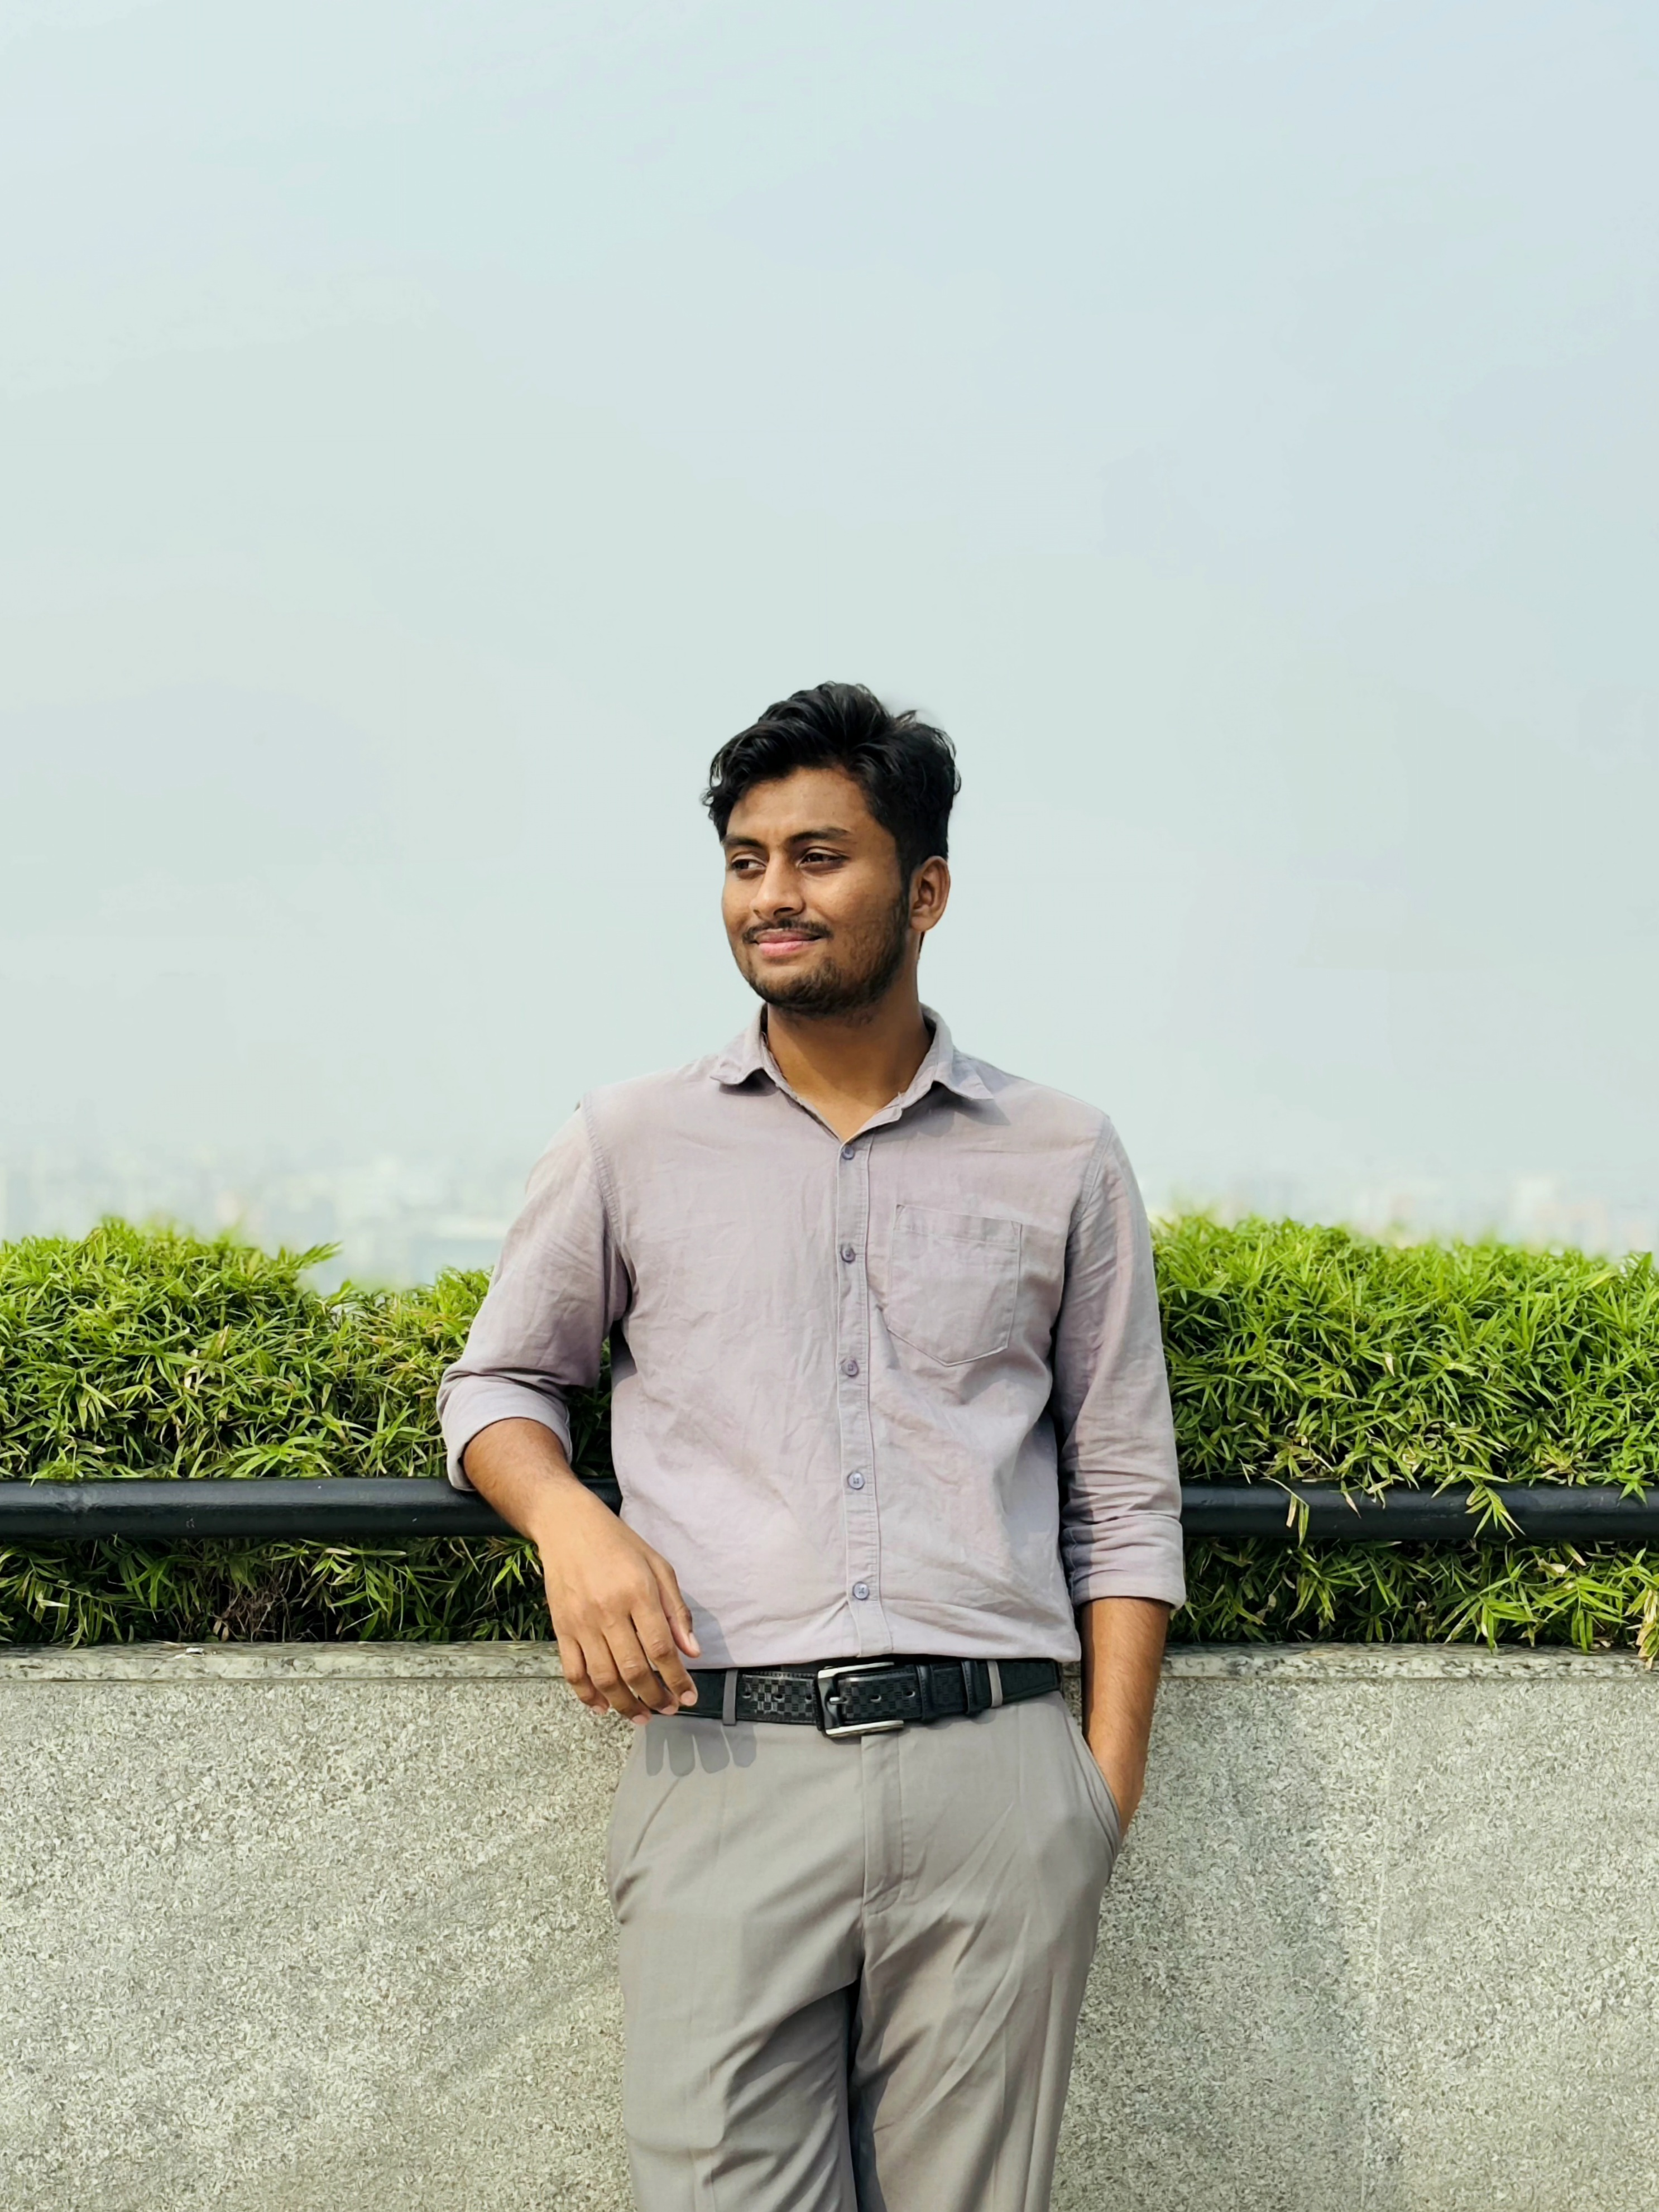
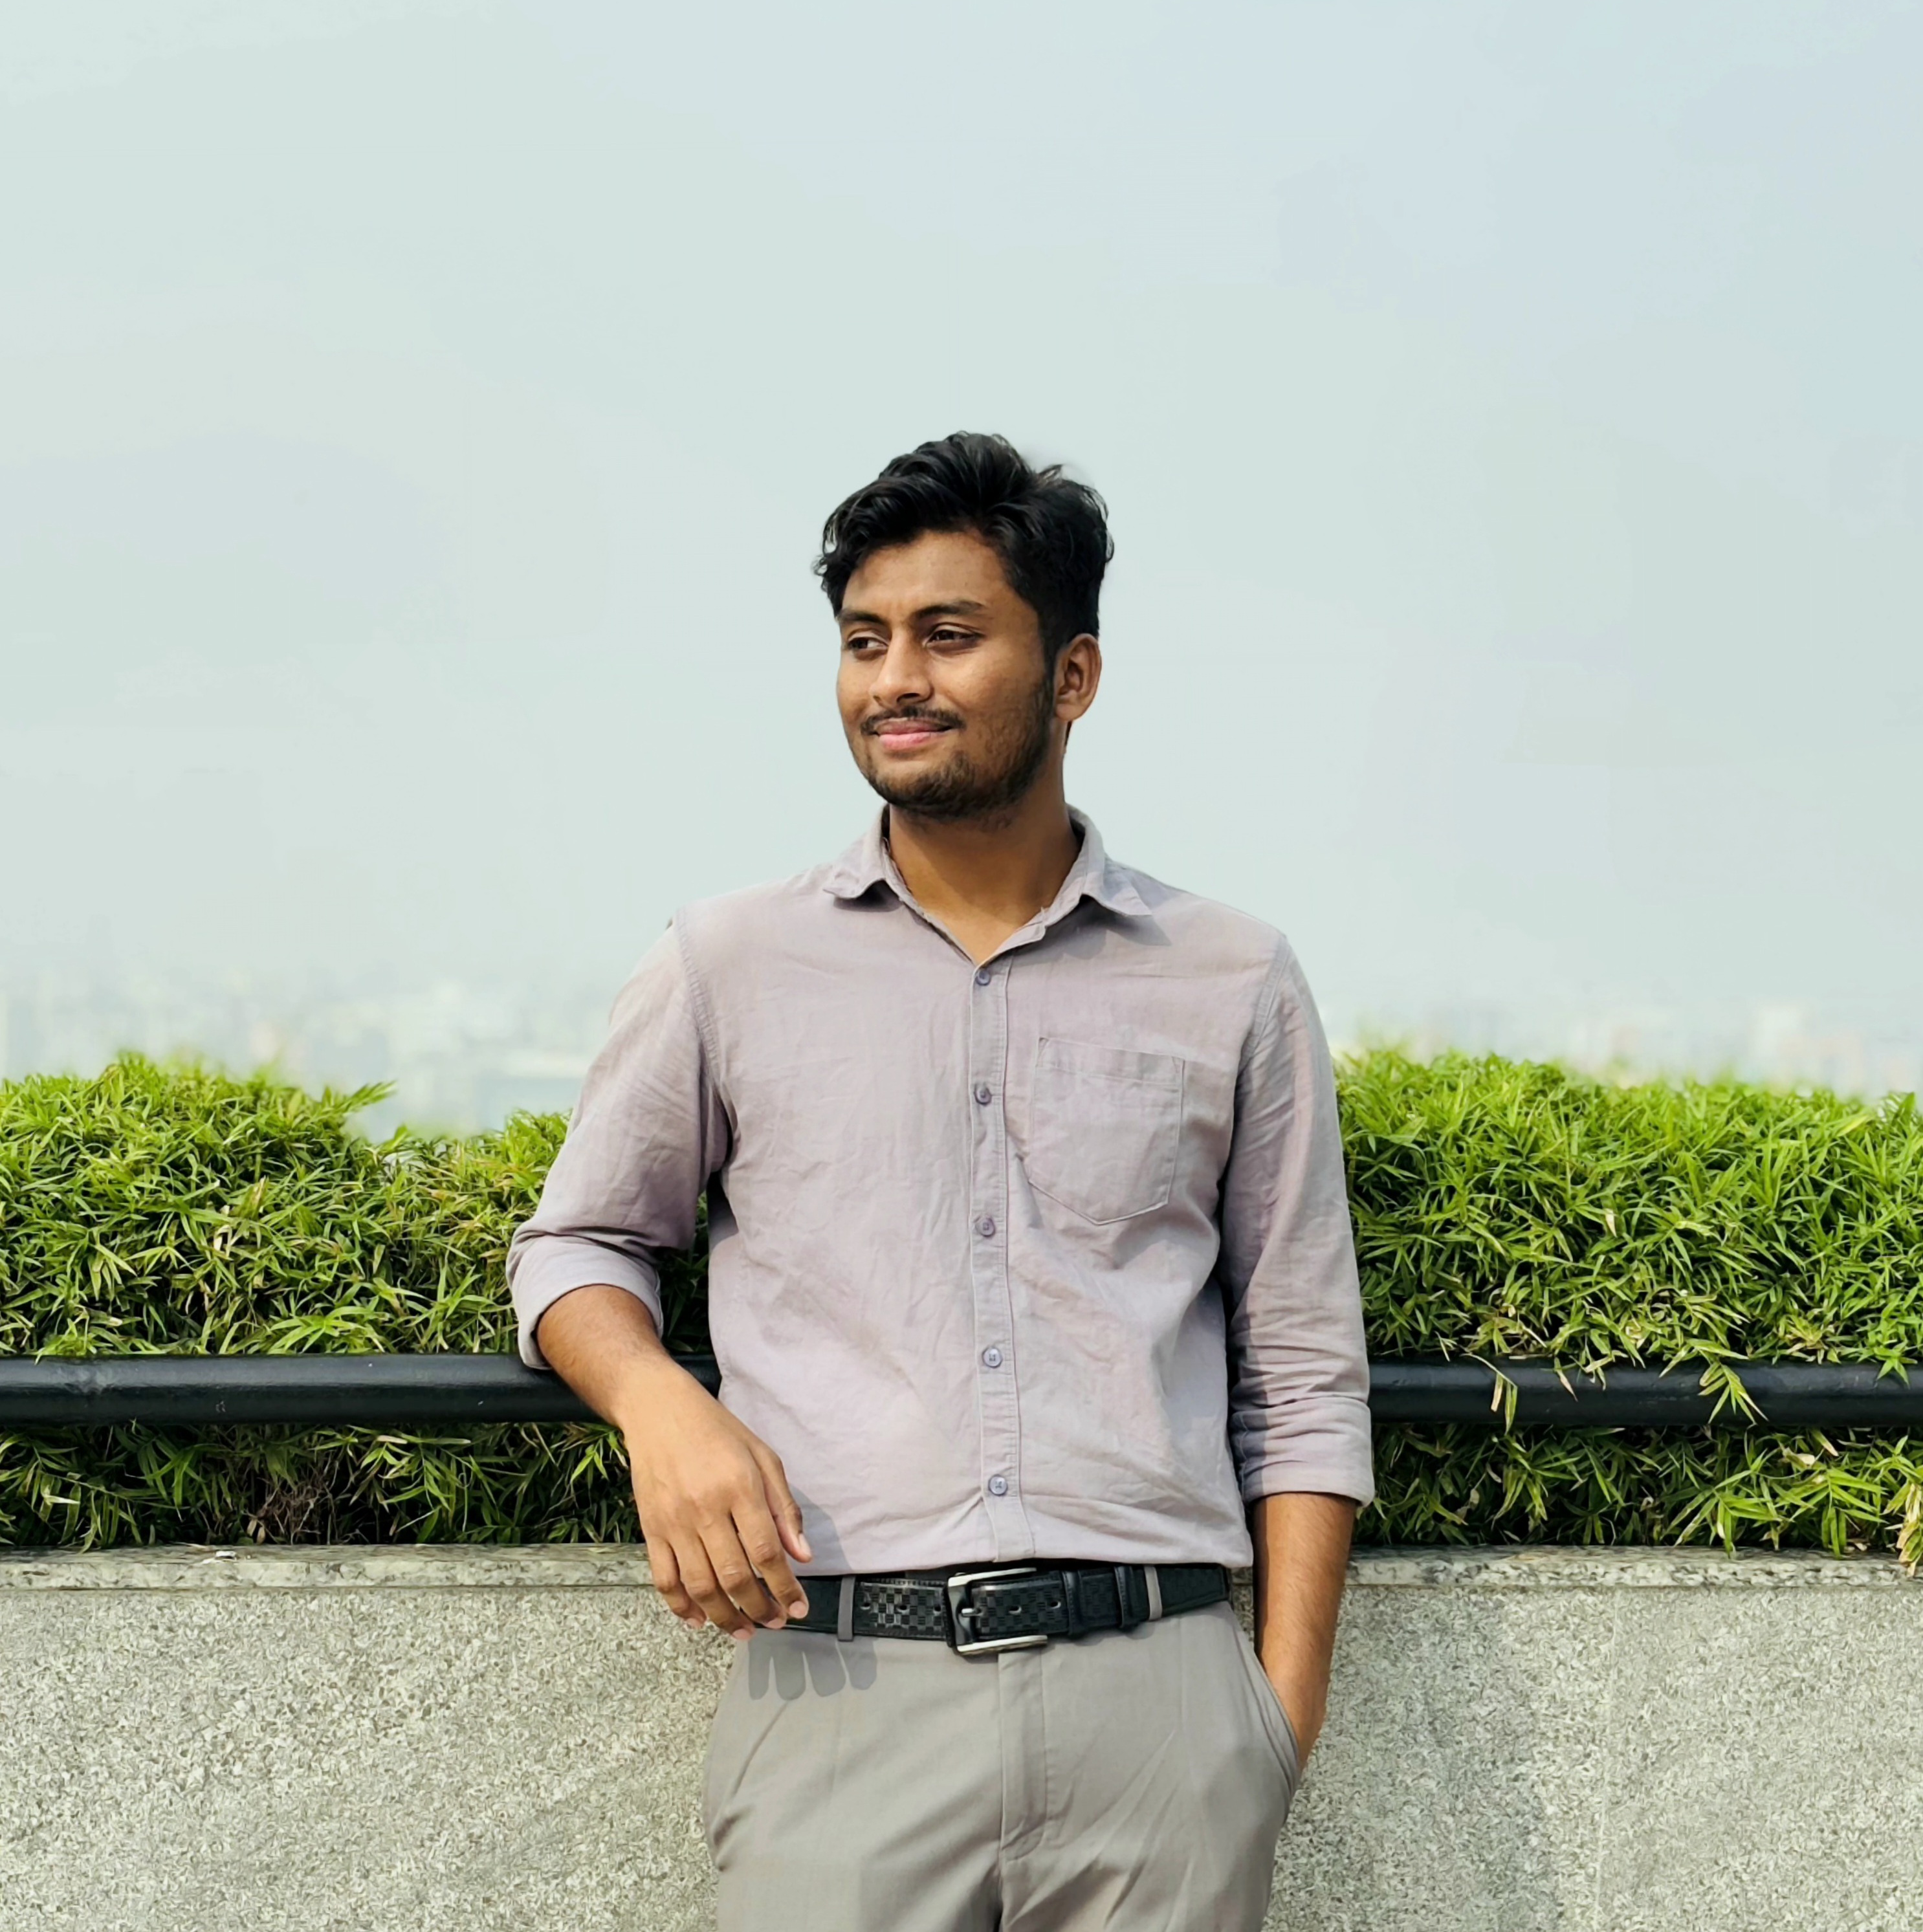
added education.html, experience.html, projects.html, contactme.html

diff --git a/portfolio/index.html b/portfolio/index.html
@@ -7,7 +7,7 @@
 </head>
 <body>
     <h1>Welcome to my portfolio</h1>
-    <img src="image/img1.jpg" alt="Profile Picture" width="187" height="250">
+    <img src="image/img1.jpg" alt="Profile Picture" width="200" height="200">
     <h2>MIRZA TAHMID SAROWAR</h2>
     <h3>Job Title</h3>
     <p>Full Stack Web-Developer</p>